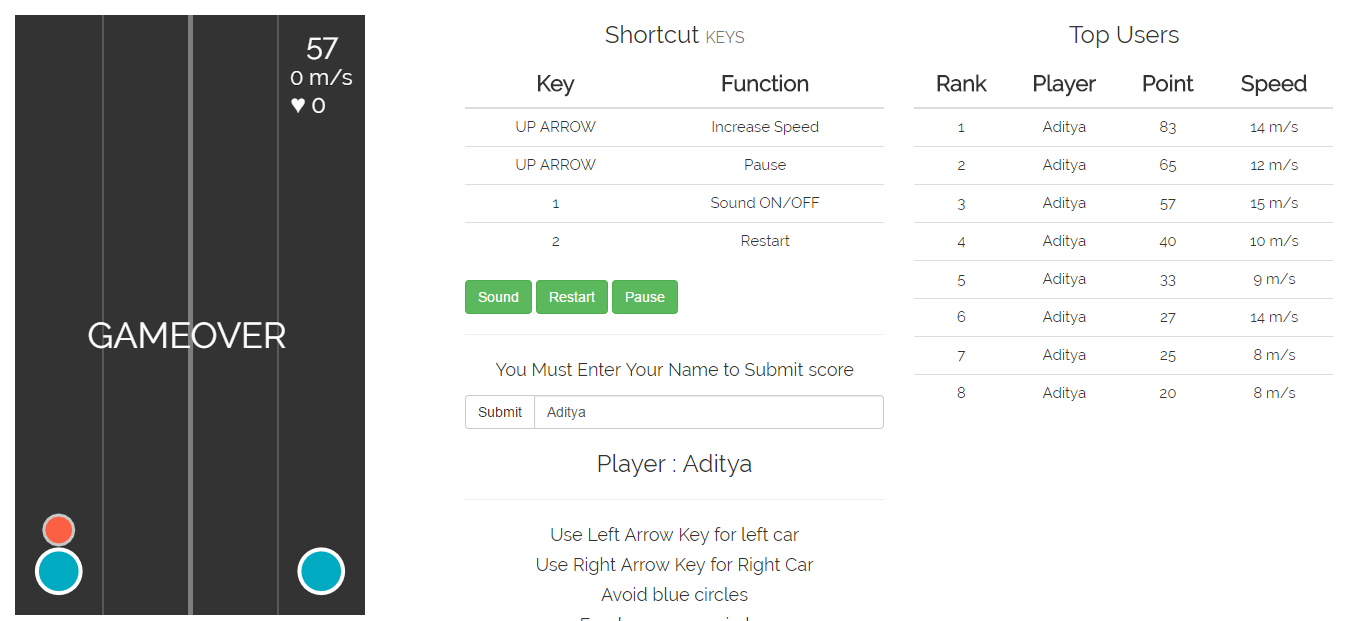
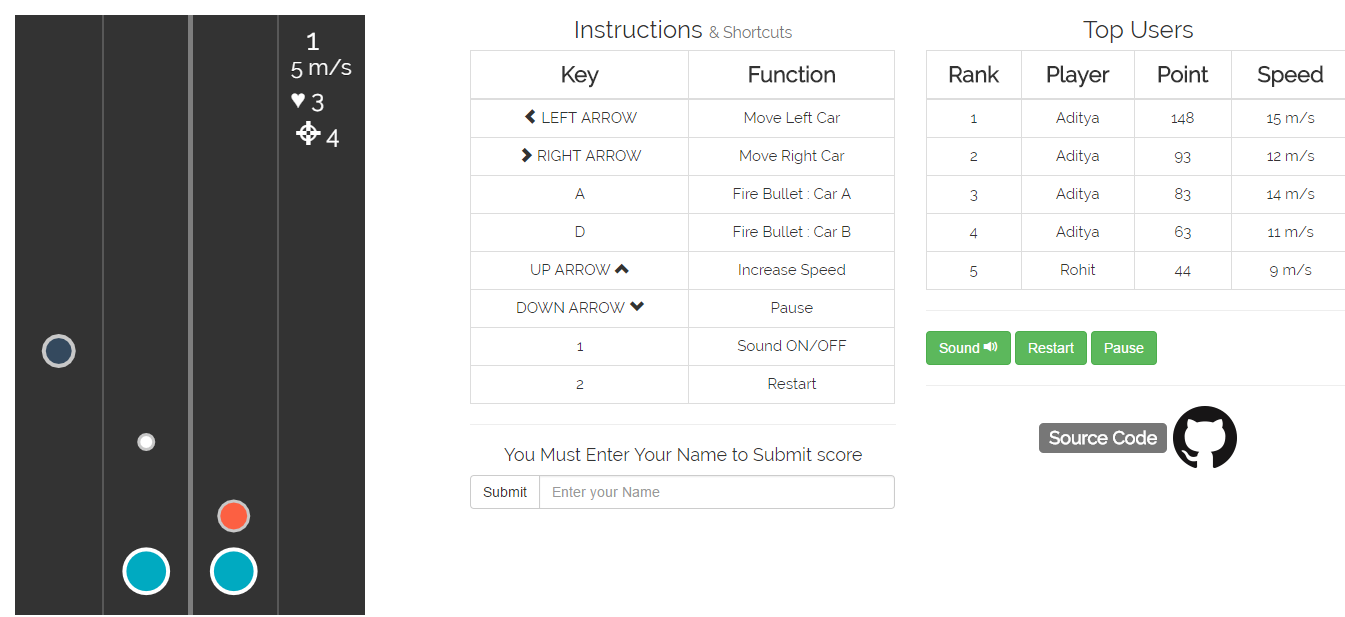
FINAL

diff --git a/index.html b/index.html
@@ -33,9 +33,7 @@
 
     <!-- Firebase -->
     <script src="https://www.gstatic.com/firebasejs/4.1.3/firebase.js"></script>
-    <script language="javascript" src="firebase.js"></script> 
-    
-
+    <script language="javascript" src="firebase.js"></script>
 </head>
 <body>
     <div class="container-fluid">
@@ -107,13 +105,17 @@
                         </tr>
                     </thead>
                     <tbody id="user_table">
-                        
+                        <!-- Display Top Users Here -->
                     </tbody>
                 </table>      
                 <hr>
+
                 <button id="sound" class="btn btn-success" onclick="soundtoggle()">Sound <span class="glyphicon glyphicon-volume-up"></span></button>
                 <button id="sound" onclick="restart()" class="btn btn-success">Restart</button>
                 <button id="sound" onclick="Pause()" class="btn btn-success">Pause</button>
+                <hr>
+                
+                <h3><span class="label label-default">Source Code</span> <a href="https://github.com/adityathebe/two-cars" target="_blank"><img src="assets/img/github.png"></a></h3>
             </div>
         </div>
     </div>

diff --git a/firebase.js b/firebase.js
@@ -36,7 +36,7 @@ function gotData(data) {
     // Displaying data
     var table = document.getElementById("user_table");
     for (var i = 0; i < keys.length; i++) {
-        if(i == 5)
+        if(i == 7)
             break;
         var row = table.insertRow(i);
         var cell1 = row.insertCell(0);
